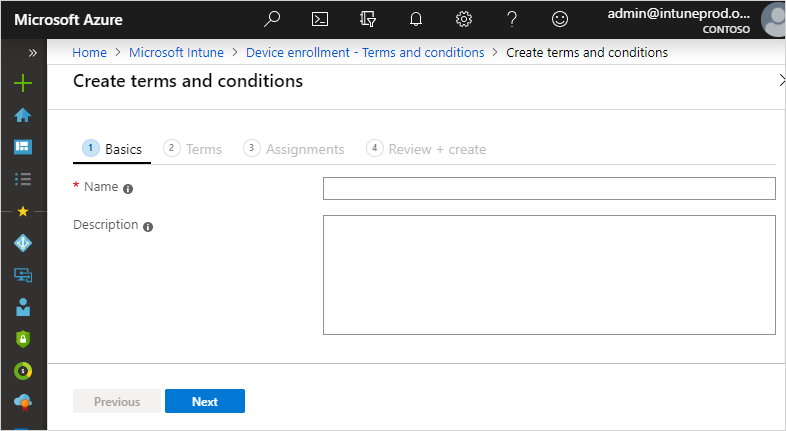
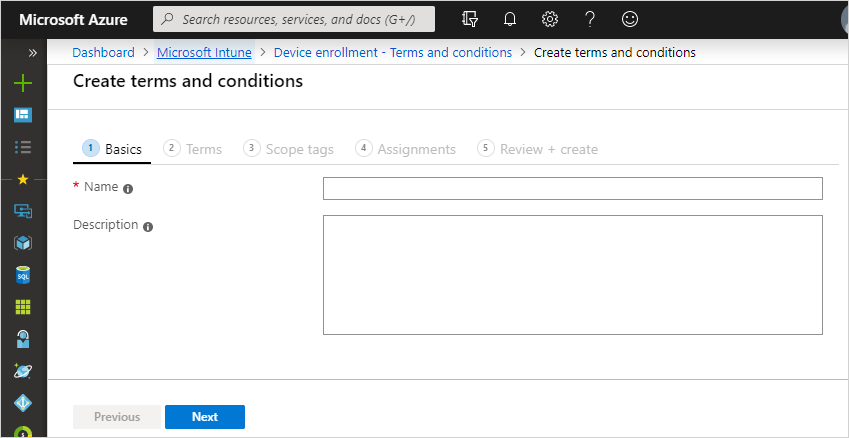
2358863 terms and conditions scope tags

diff --git a/intune/terms-and-conditions-create.md b/intune/terms-and-conditions-create.md
@@ -67,11 +67,15 @@ Complete these steps to create terms and conditions. The display name and descri
    - **Terms and Conditions**: The terms and conditions that users see and must either accept or reject.
    - **Summary of Terms**: Text that explains what it means when users accept the terms. For example, "By enrolling your device, you're agreeing to the terms of use set out by Contoso. Read the terms carefully before proceeding."
 
-6. Choose **Next** to go to the **Assignments** page and choose one of the following options for **Assign to**:
+6. Choose **Next** to go to the **Scope tags** page.
+
+7. Choose **Select scope tags**, select the scope tags that you want to assign to these terms and conditions, and then choose **Select**. 
+
+8. Choose **Next** to go to the **Assignments** page and choose one of the following options for **Assign to**:
     - **All users**: Choose this option to assign these terms and conditions to all users.
     - **Select groups**: Choose this option to assign these terms and conditions to everyone in the groups that you identify by choosing **Select groups to include**.
 
-6. Choose **Next** > **Create**.
+9. Choose **Next** > **Create**.
 
 ## See how terms are displayed to your users
 The following example shows the **Title** and **Summary of Terms** in the admin console and Company Portal.
